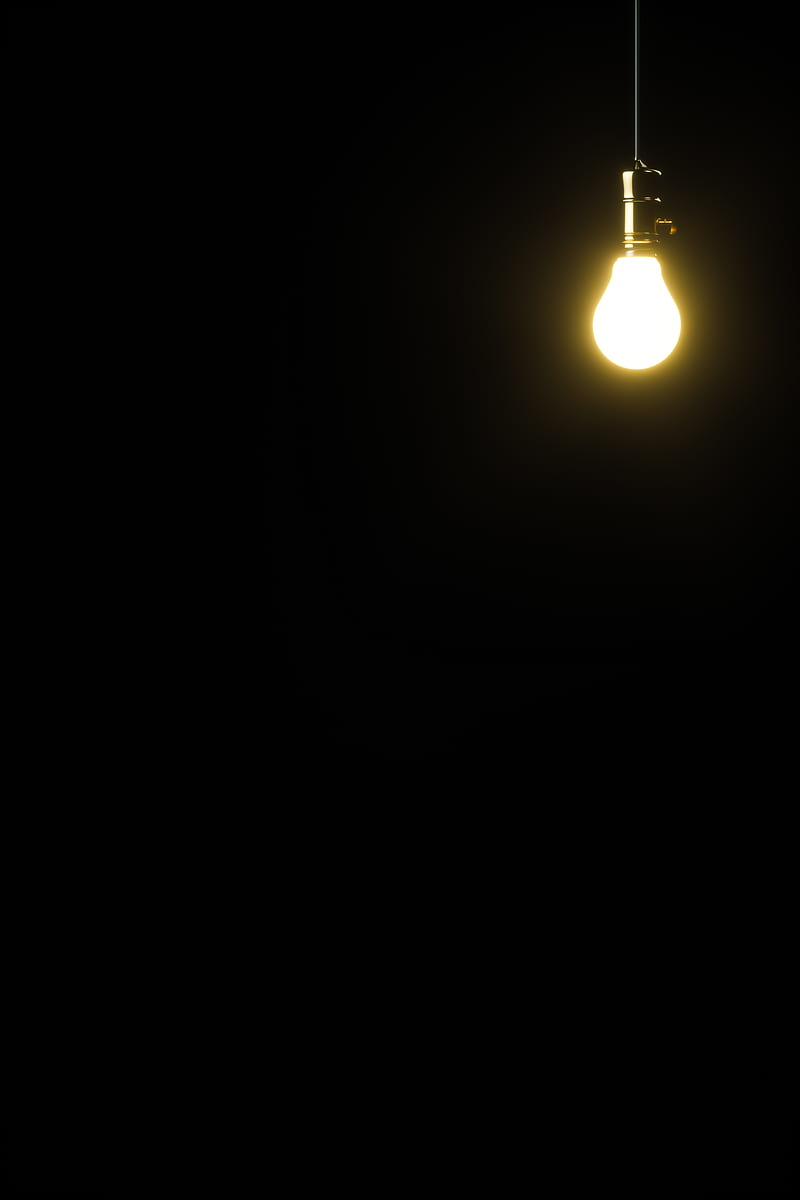
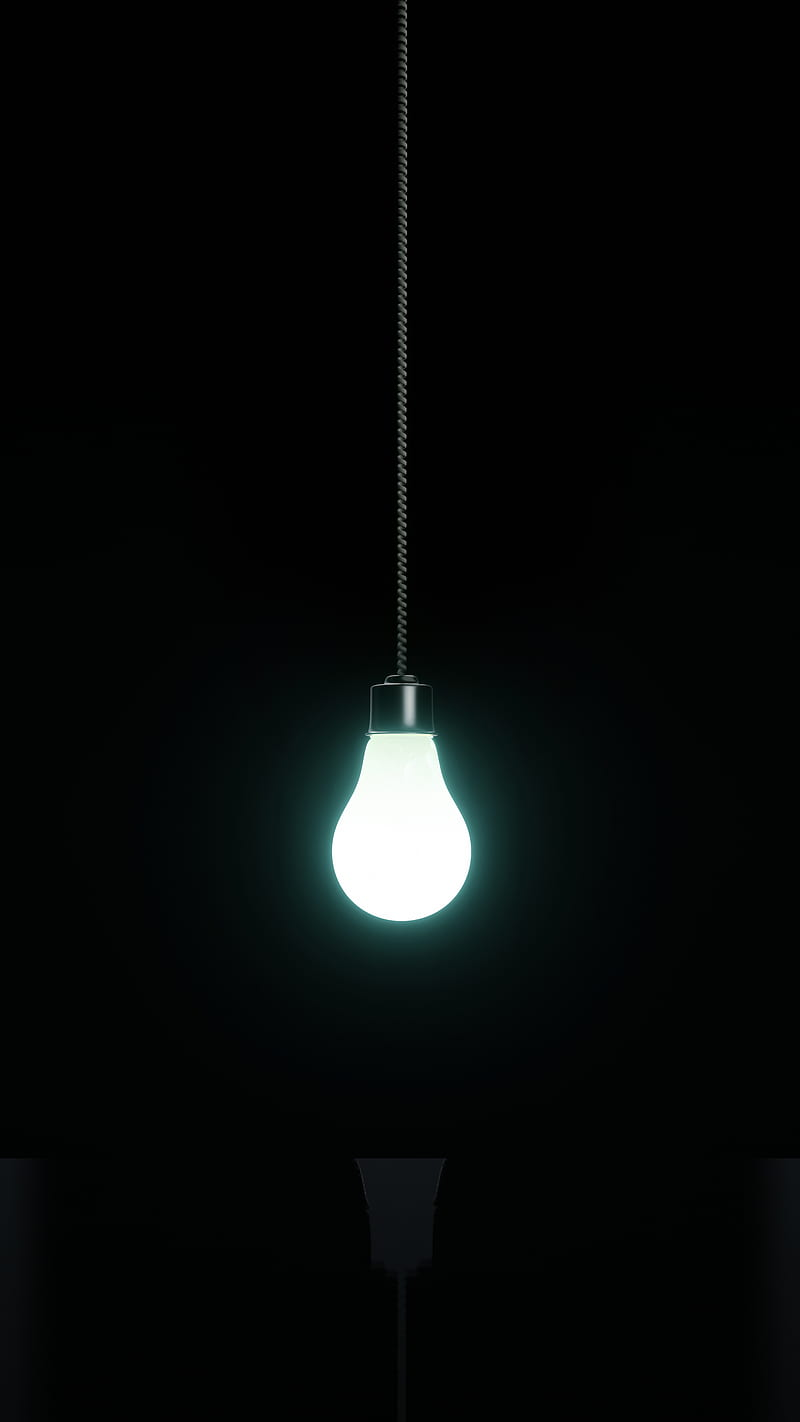
Finich update

Changed region(s): [[0.3438, 0.0, 0.6562, 0.7092], [0.625, 0.1233, 0.9688, 0.4008], [0.7812, 0.0, 0.8125, 0.0925]]

diff --git a/src/components/Home/Images.css b/src/components/Home/Images.css
@@ -1,12 +1,12 @@
 .images .box1{
     position: absolute;
     top: 3px;
-    right: 80px;
-    /* background: url(images/light2.png) no-repeat 50% 50%; */
+    right: 600px;
+    background: url(images/102d262e-2af0-4da5-9c55-8e434b35a875_rw_600.gif) no-repeat 50% 50%;
     background-size: cover;
-    width: 230px;
+    width: 180px;
     /* border: .5px solid gray; */
-    height: 230px;
+    height: 180px;
     border-radius: 60%;
     
 
@@ -14,13 +14,13 @@
 .images .box2{
     position: absolute;
     top: 210px;
-    right: 410px;
+    right: 2px;
     background: url(images/IMG-2588.png) no-repeat 50% 50%;
     background-size: cover;
-    width: 340px;
-    /* border: .1px solid rgb(253, 253, 253); */
+    max-width: 100%;
+    width: 340px;    /* border: .1px solid rgb(253, 253, 253); */
     height: 580px;
-    border-radius: 60%;
+    border-radius: 0%;
 
 }
 .images .box3{

diff --git a/src/components/Sidebar/index.scss b/src/components/Sidebar/index.scss
@@ -85,7 +85,7 @@
 
     a.about-link {
       &:after {
-        content: 'SKILLS';
+        content: 'ABOUT';
       }
     }
 
